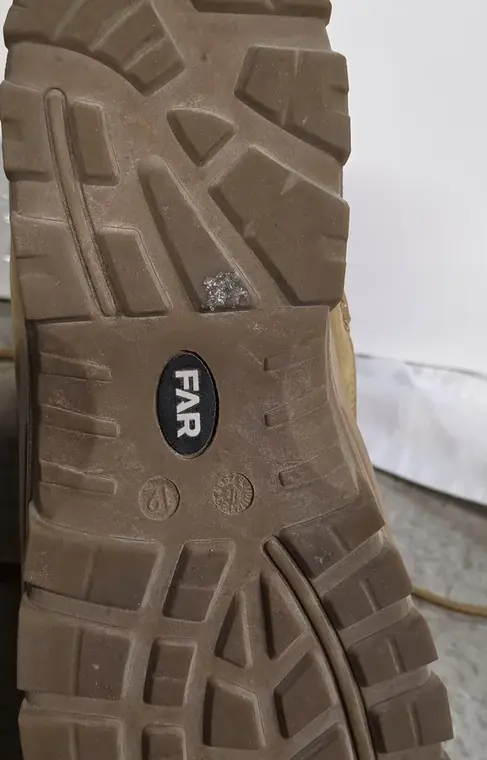
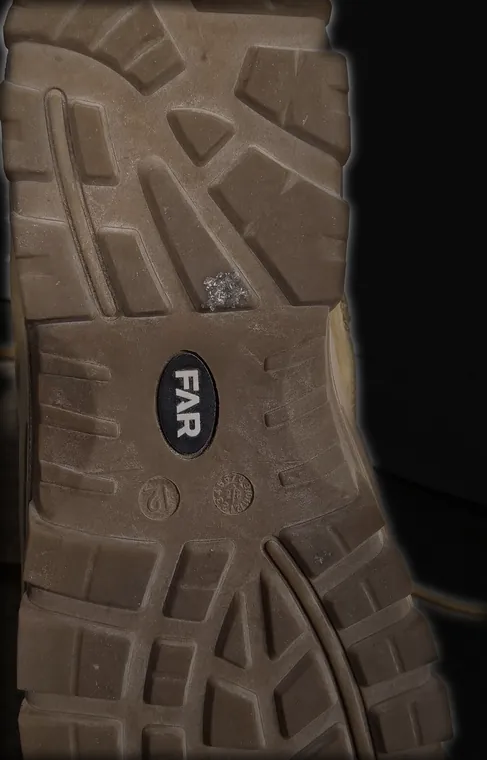
S1063: motion hero - 32-frame scroll-scrub from the REAL turntable (233KB); 8 detail macros studio-treated with real pixels, no regeneration

diff --git a/v4/index.html b/v4/index.html
@@ -325,6 +325,31 @@ a{color:inherit;text-decoration:none}
 .dock-l .s{font-family:var(--mono);font-size:9.5px;letter-spacing:.08em;color:var(--paper-3);text-transform:uppercase}
 .dock .cta{flex:0 0 auto;min-height:48px;padding:0 18px;font-size:14px}
 
+
+/* ═══ THE SPIN ═══════════════════════════════════════════════════ */
+.spin{background:var(--ink);position:relative}
+.spin-track{height:320svh}                     /* the scroll runway */
+.spin-stick{
+  position:sticky;top:0;height:100svh;
+  display:grid;place-items:center;overflow:clip;
+}
+#spin-canvas{
+  position:absolute;inset:0;width:100%;height:100%;
+  display:block;
+}
+.spin-copy{position:relative;z-index:2;text-align:center;pointer-events:none;
+  align-self:start;padding-top:clamp(48px,12svh,120px)}
+.spin-h{font-size:clamp(30px,9vw,86px);line-height:.92;mix-blend-mode:difference}
+.spin-copy .mono{margin-bottom:10px;font-size:11px;color:var(--paper-2)}
+.spin-cue{
+  position:absolute;bottom:calc(18px + env(safe-area-inset-bottom));left:50%;
+  translate:-50% 0;z-index:2;opacity:.55;
+}
+@media (prefers-reduced-motion:reduce){
+  .spin-track{height:auto}
+  .spin-stick{position:static;height:auto;padding:60px 0;min-height:60svh}
+}
+
 /* ═══ 2. THE LINE ════════════════════════════════════════════════ */
 .line-sec{padding:clamp(70px,16vw,150px) 0;border-top:1px solid var(--line)}
 .creed{
@@ -544,6 +569,25 @@ footer nav{display:flex;flex-wrap:wrap;gap:14px 20px}
   </div>
   <span class="cue">Scroll</span>
 </header>
+
+
+<!-- ══ THE SPIN ══════════════════════════════════════════════════
+     The wrk-timepieces mechanic: a sticky canvas whose frame index is
+     driven by scroll. Theirs is 729 CGI renders costing ~24MB on mobile.
+     This is 32 frames of REAL FOOTAGE of the real boot, 276KB, so the
+     geometry cannot drift the way a generated rotation would. -->
+<section class="spin" id="spin">
+  <div class="spin-track">
+    <div class="spin-stick">
+      <canvas id="spin-canvas" aria-hidden="true"></canvas>
+      <div class="spin-copy wrap">
+        <p class="mono" id="spin-deg">000&deg;</p>
+        <h2 class="shout spin-h">All the way<br>around.</h2>
+      </div>
+      <p class="mono spin-cue">Keep scrolling</p>
+    </div>
+  </div>
+</section>
 
 <!-- ══ 2. THE LINE ═══════════════════════════════════════════════ -->
 <section class="line-sec">
@@ -911,6 +955,67 @@ $('#lead').addEventListener('submit', ev => {
   $('#lead-msg').textContent = "You're in. Check your email.";
   ev.target.hidden = true;
 });
+
+/* ── the spin: sticky canvas, frame index from scroll ──────────────
+   Frames are fetched once and decoded to bitmaps. We only repaint when
+   the INTEGER frame changes, which is the trick that makes a scrub cheap
+   enough to run on a phone. */
+(() => {
+  const cv = document.getElementById('spin-canvas');
+  if(!cv) return;
+  const track = document.querySelector('.spin-track');
+  const deg = document.getElementById('spin-deg');
+  const N = 32, SWEEP = 180;
+  const imgs = new Array(N), ctx = cv.getContext('2d', {alpha:false});
+  let ready = 0, cur = -1, tick = false, sized = false;
+
+  const size = () => {
+    const r = cv.getBoundingClientRect(), dpr = Math.min(devicePixelRatio||1, 2);
+    cv.width = Math.round(r.width*dpr); cv.height = Math.round(r.height*dpr);
+    sized = true; cur = -1; draw(true);
+  };
+  const paint = (im) => {
+    const W = cv.width, H = cv.height;
+    ctx.fillStyle = '#0A0A0B'; ctx.fillRect(0,0,W,H);
+    if(!im) return;
+    const s = Math.min(W/im.width, H/im.height);   // whole boot; the frame
+                                                  // vignettes to ink so no box shows
+    const w = im.width*s, h = im.height*s;
+    ctx.drawImage(im, (W-w)/2, (H-h)/2, w, h);
+  };
+  const draw = (force) => {
+    if(!sized) return;
+    const r = track.getBoundingClientRect(), vh = innerHeight;
+    const t = Math.min(1, Math.max(0, -r.top / Math.max(1, r.height - vh)));
+    const i = Math.min(N-1, Math.round(t*(N-1)));
+    if(i !== cur || force){
+      cur = i;
+      if(imgs[i]) paint(imgs[i]);
+      if(deg) deg.textContent = String(Math.round(t*SWEEP)).padStart(3,'0') + '°';
+    }
+    tick = false;
+  };
+  addEventListener('scroll', () => { if(!tick){ tick = true; requestAnimationFrame(() => draw(false)); } }, {passive:true});
+  addEventListener('resize', size, {passive:true});
+
+  /* load only when the runway is within two screens */
+  let started = false;
+  const maybeLoad = () => {
+    if(started) return;
+    const r = track.getBoundingClientRect();
+    if(r.top > innerHeight*2) return;
+    started = true;
+    for(let i=0;i<N;i++){
+      const im = new Image();
+      im.decoding = 'async';
+      im.onload = () => { imgs[i] = im; if(++ready === 1){ size(); } if(i === cur) paint(im); };
+      im.src = `assets/spin/s${String(i).padStart(2,'0')}.webp`;
+    }
+  };
+  addEventListener('scroll', maybeLoad, {passive:true});
+  maybeLoad();
+})();
+
 })();
 </script>
 </body>
